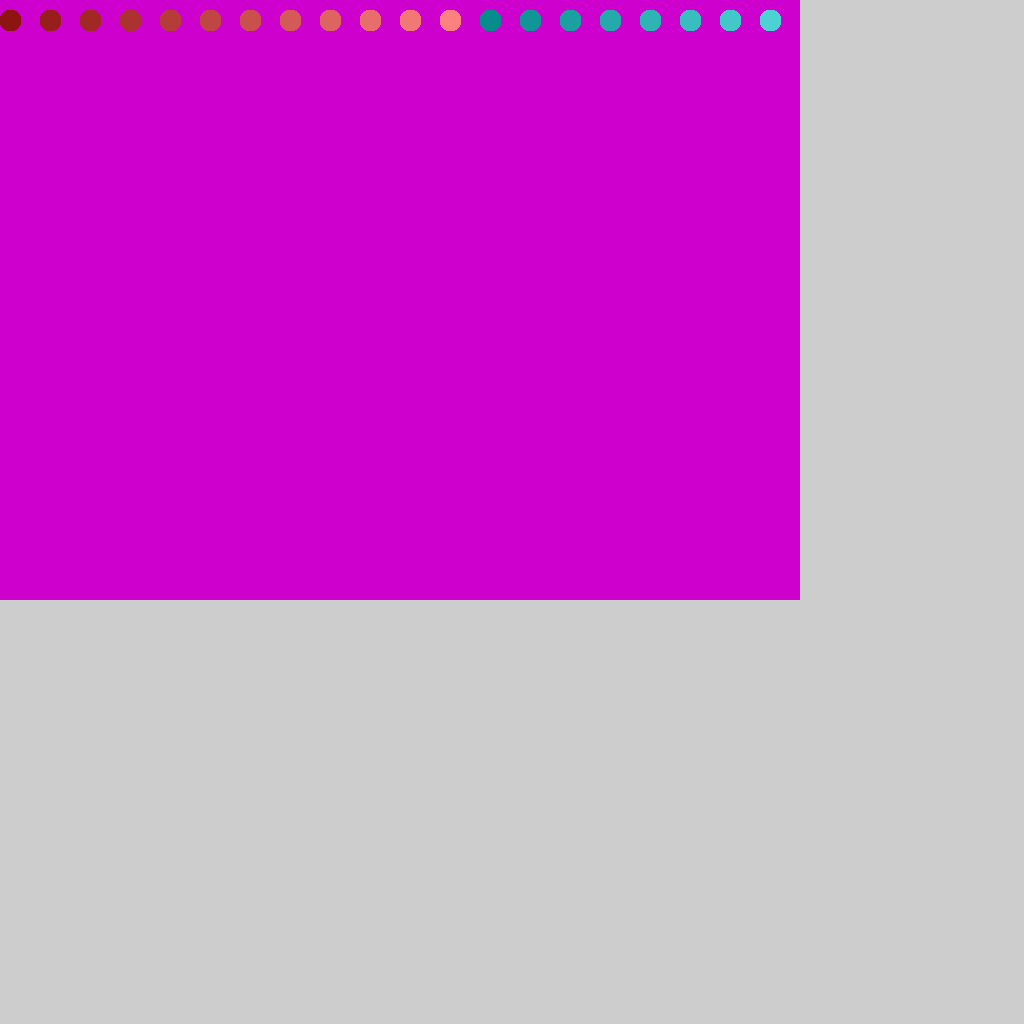
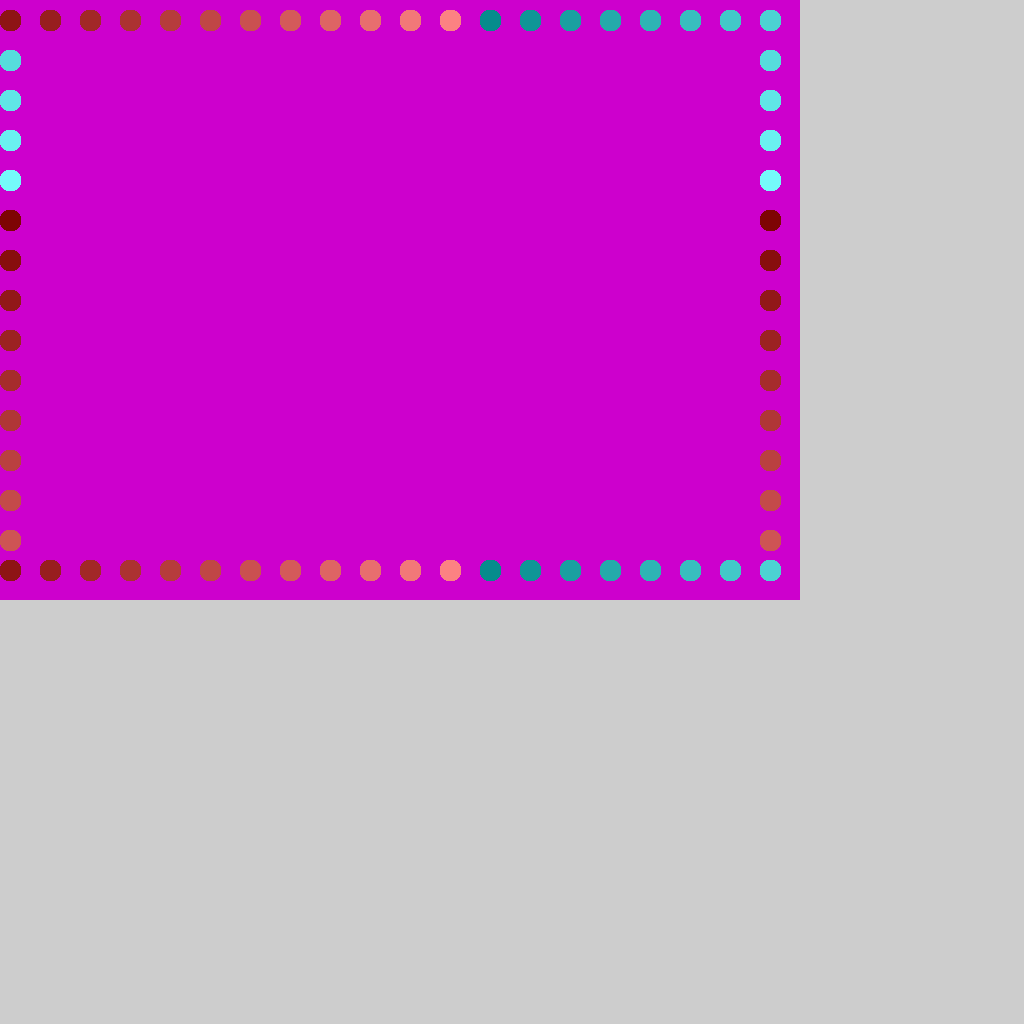
put the circles as a border

Changed region(s): [[0.0, 0.0312, 0.7812, 0.5625]]

diff --git a/src/HomeWork1App.cpp b/src/HomeWork1App.cpp
@@ -205,10 +205,18 @@ void HomeWork1App::update()
 
 	//Draws a row of circles.
 	int circleX = 10;
+	int circleY = 60;
 	while(circleX<800){
 	createGradient();
 	drawCircle(dataArray, circleX, 20, 10, gradColor);
+	drawCircle(dataArray, circleX, 570, 10, gradColor);
 	circleX = circleX + 40;
+		}
+	while(circleY<560){
+	createGradient();
+	drawCircle(dataArray, 10, circleY, 10, gradColor);
+	drawCircle(dataArray, 770, circleY, 10, gradColor);
+	circleY = circleY + 40;
 		}
 	
 	
